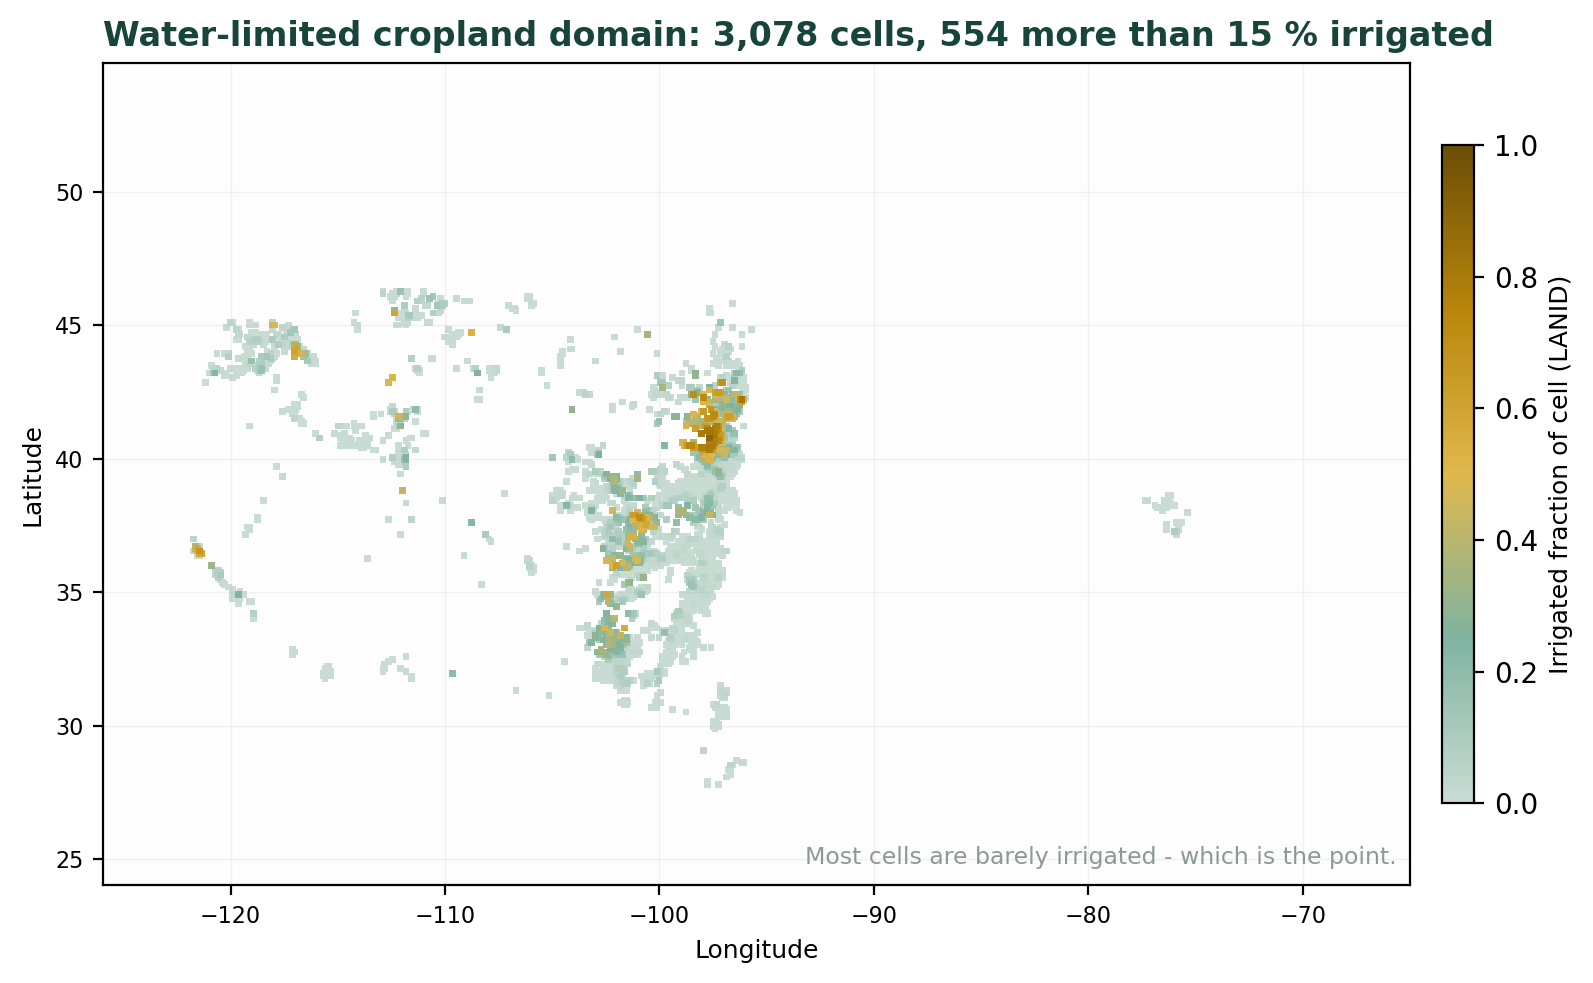
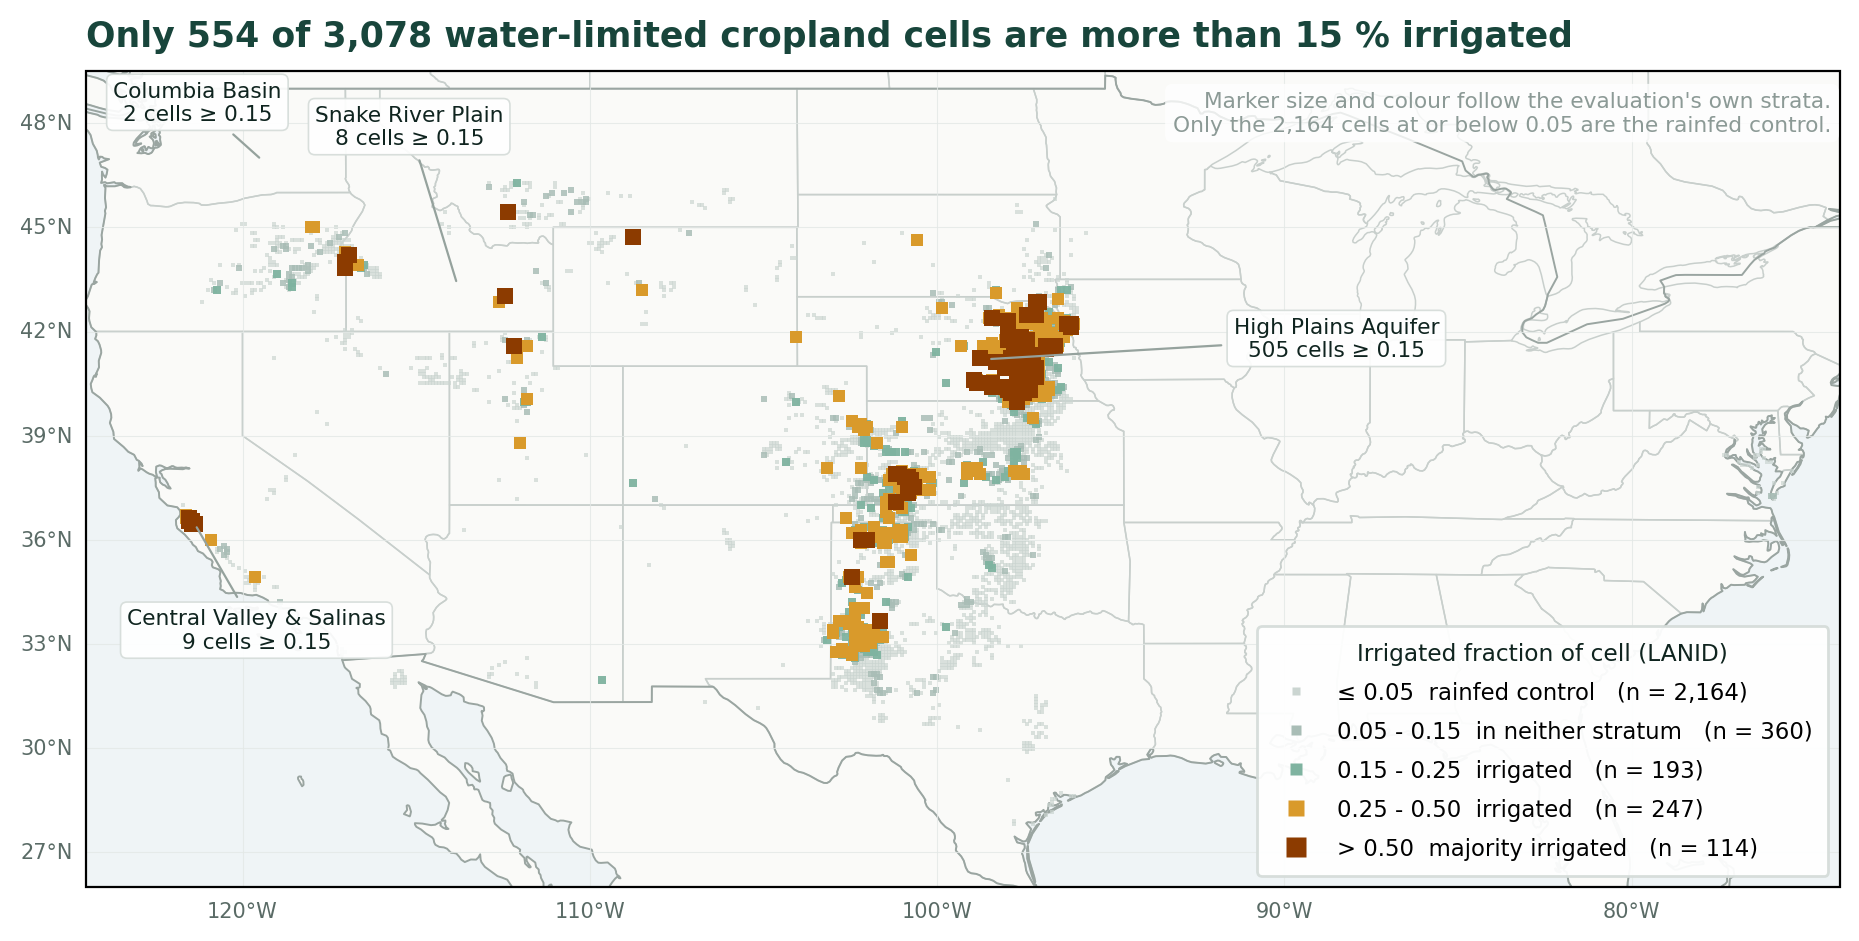
deploy: dc5afd19d11ed4789f9f4583d258ebc7c136023a

diff --git a/blog/index.html b/blog/index.html
@@ -295,7 +295,7 @@ window.Quarto = {
 
 <div class="quarto-listing quarto-listing-container-default" id="listing-listing">
 <div class="list quarto-listing-default">
[2 lines of base64/hex data omitted]
 <div class="body">
 <h3 class="no-anchor listing-title">
 <a href="../blog/posts/irrigation-drought-forecasting/Index.html" class="no-external">Does correcting irrigation in satellite soil moisture improve drought forecasts?</a>
@@ -309,11 +309,11 @@ window.Quarto = {
 <div class="listing-date">
 Sep 6, 2026
 </div>
-<div class="listing-reading-time">8 min</div>
+<div class="listing-reading-time">9 min</div>
 </a>
 </div>
 </div>
-<div class="quarto-post image-right" data-index="1" data-categories="YW5ub3VuY2VtZW50" data-listing-date-sort="1788566400000" data-listing-file-modified-sort="1788757050783" data-listing-date-modified-sort="NaN" data-listing-reading-time-sort="1" data-listing-word-count-sort="1">
+<div class="quarto-post image-right" data-index="1" data-categories="YW5ub3VuY2VtZW50" data-listing-date-sort="1788566400000" data-listing-file-modified-sort="1788758982955" data-listing-date-modified-sort="NaN" data-listing-reading-time-sort="1" data-listing-word-count-sort="1">
 <div class="body">
 <h3 class="no-anchor listing-title">
 <a href="../blog/posts/welcome/index.html" class="no-external">Welcome to the blog</a>

diff --git a/blog/posts/irrigation-drought-forecasting/Index.html b/blog/posts/irrigation-drought-forecasting/Index.html
@@ -340,6 +340,7 @@ Figure&nbsp;4: Skill change against irrigated fraction. In cells more than half 
 </div>
 <p>In cells where more than half the area is irrigated, the correction improves skill by 0.013 anomaly correlation at 32-day lead, with a confidence interval that excludes zero. The effect grows steadily with irrigated fraction, and grows with lead time — exactly where soil moisture contributes most to the forecast in the first place.</p>
 <p>I want to be careful here. I ran 35 statistical tests across leads and pixel groups, and one crossing the 0.05 threshold is roughly what chance would produce. No single number in that figure is decisive on its own.</p>
+<p>The cells above 50% irrigated fraction are also concentrated in Nebraska and Kansas — 88% of them, mostly along the Platte and in the central Kansas irrigation district — rather than spread across the irrigated West, where the Columbia Basin contributes two cells and the Central Valley nine. This gradient therefore reflects a few regions more than a national pattern.</p>
 <p>What is harder to dismiss is the shape. The effect increases monotonically with irrigated fraction at every lead time. It increases with lead time within the most irrigated group. It is positive everywhere on irrigated pixels and flat on the control pixels that cannot respond. That coherence was predicted in advance by the dilution explanation, not discovered by staring at the table afterwards.</p>
 <p>So the honest summary: the correction does not change forecasts at 9 km across a mixed landscape, and it probably does help where irrigation dominates the pixel. Both halves matter.</p>
 </section>
